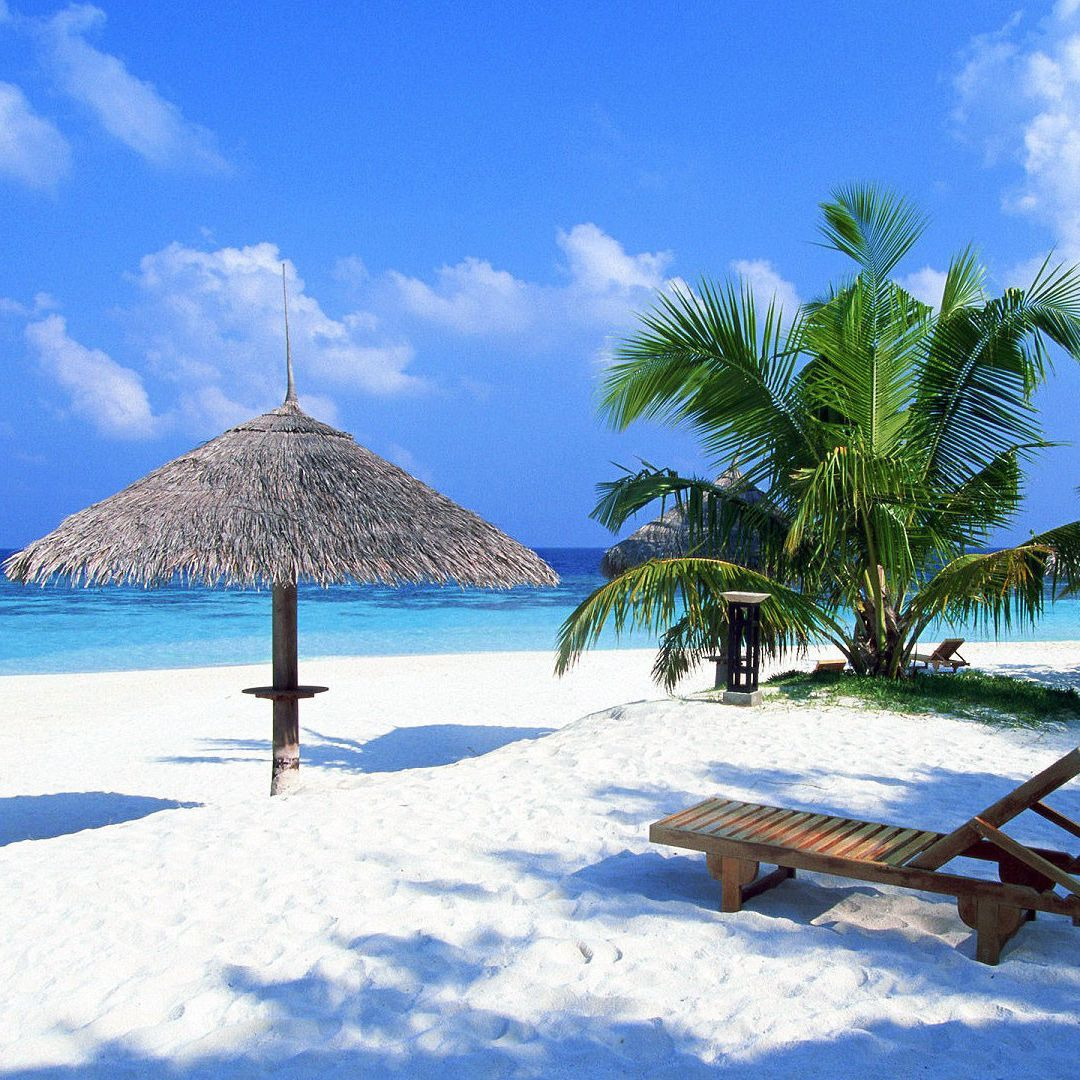
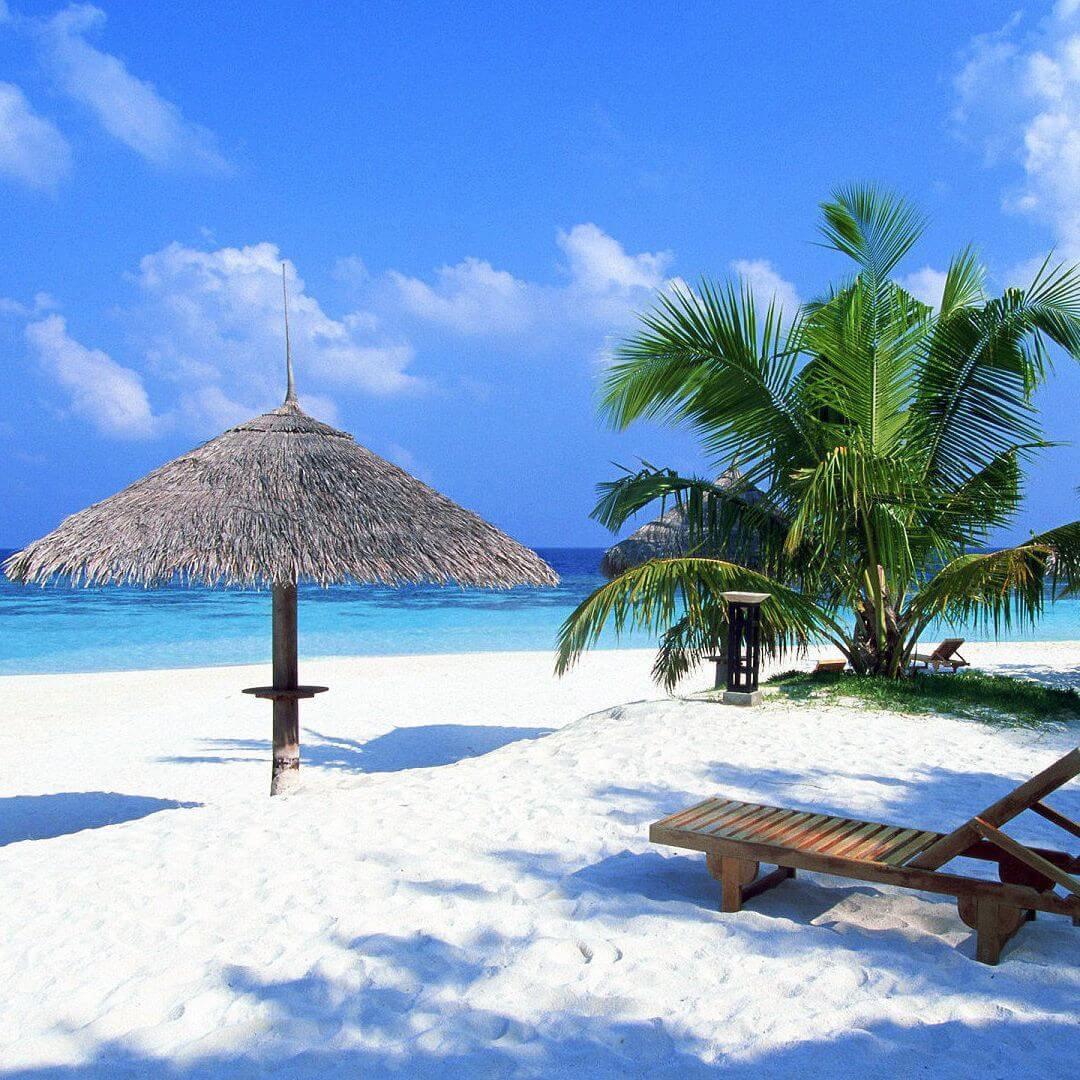
trimmed images' file size, added animation on the title, removed sandbox

diff --git a/lib/shared/screenTitle.dart b/lib/shared/screenTitle.dart
@@ -7,13 +7,26 @@ class ScreenTitle extends StatelessWidget {
 
   @override
   Widget build(BuildContext context) {
-    return Text(
-      text,
-      style: TextStyle(
-          fontSize: 36,
-          color: Colors.white,
-          fontWeight: FontWeight.bold,
-          letterSpacing: 1.0),
+    return TweenAnimationBuilder(
+          child: Text(
+        text,
+        style: TextStyle(
+            fontSize: 36,
+            color: Colors.white,
+            fontWeight: FontWeight.bold,
+            letterSpacing: 1.0),
+      ),
+      tween: Tween<double>(begin: 0, end: 1),
+      duration: Duration(seconds: 1),
+      builder: (BuildContext context, double _val, Widget child) {
+        return Opacity(
+          opacity: _val,
+          child: Padding(
+            padding: EdgeInsets.only(top: _val * 20),
+            child: child,
+          ),
+        );
+      },
     );
   }
 }

diff --git a/lib/main.dart b/lib/main.dart
@@ -1,6 +1,5 @@
 import 'package:flutter/material.dart';
 import 'package:triptastic/screens/home.dart';
-import 'package:triptastic/screens/sandbox.dart';
 
 void main() {
   runApp(MyApp());
@@ -13,7 +12,7 @@ class MyApp extends StatelessWidget {
     return MaterialApp(
       debugShowCheckedModeBanner: false,
       title: 'Triptastic',
-      home: Sandbox(),
+      home: Home(),
     );
   }
 }
